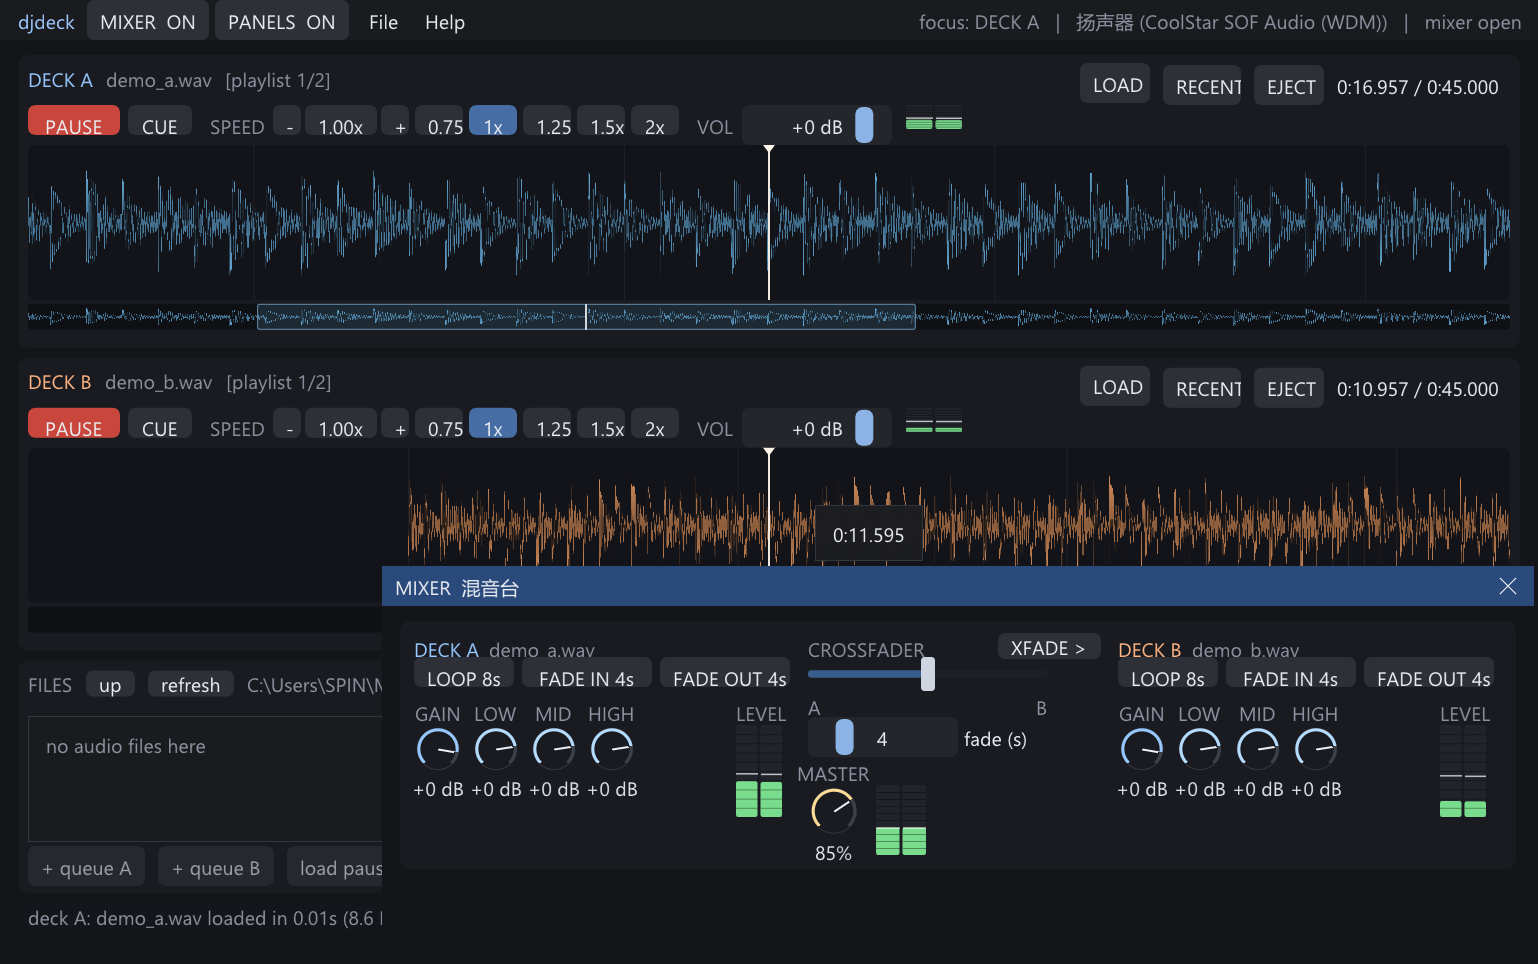
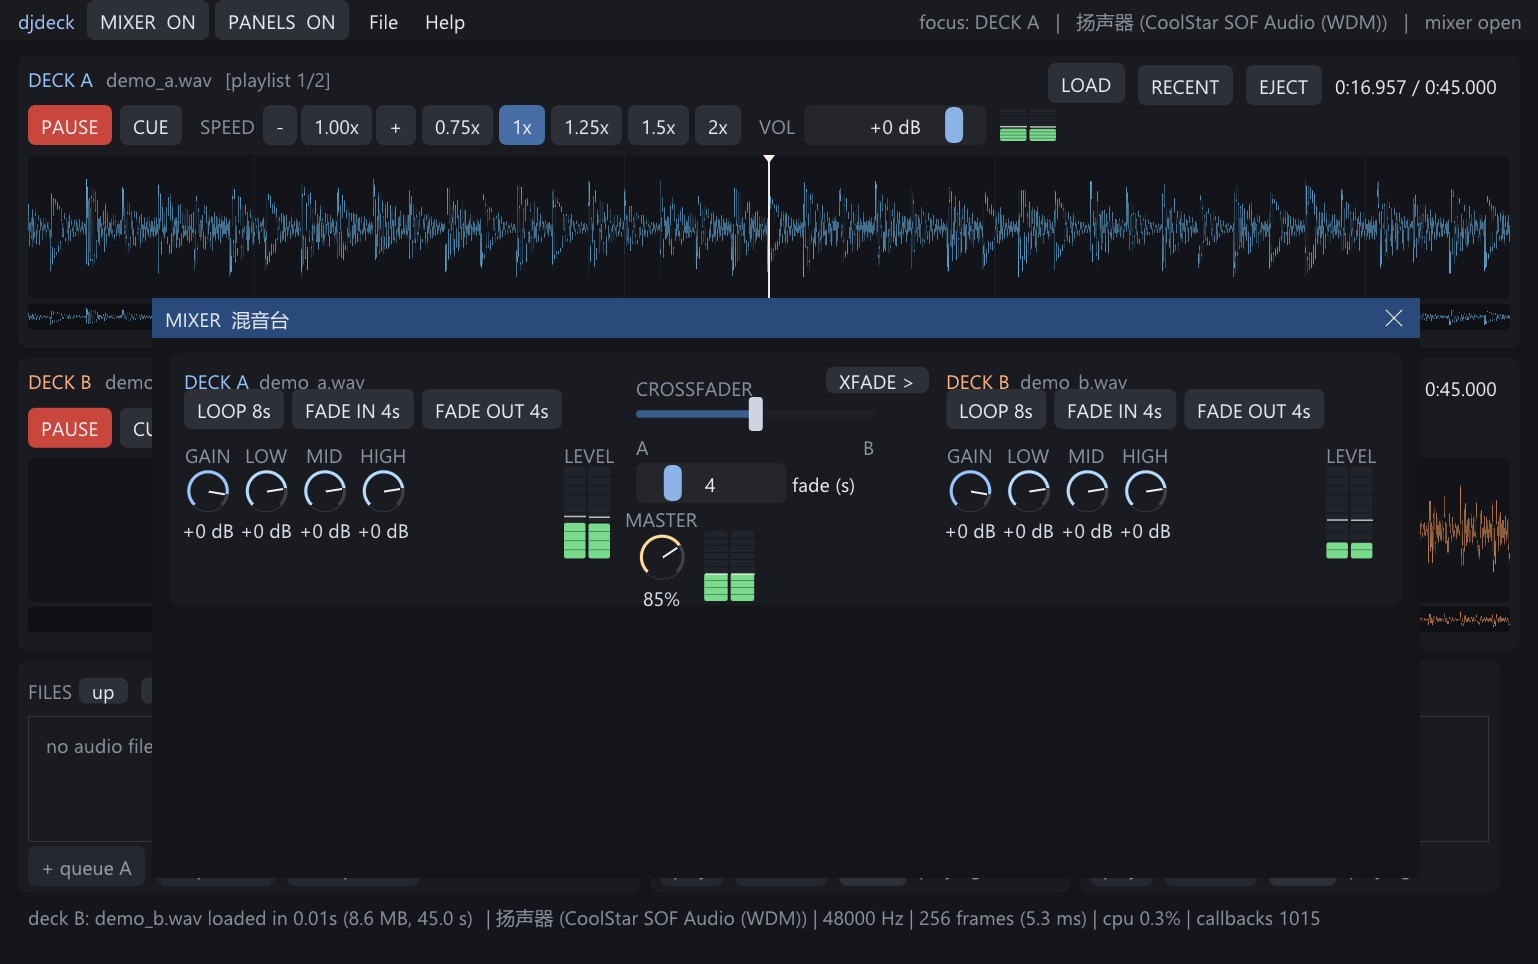
fix the row metrics: size everything from the style, not from pixel constants
The UI runs at the display's DPI scale (150% here: line height 26px), but the deck row
sizes were constants tuned for ~21px text: btnH was 30 while the font alone needed 26,
so the labels sat jammed against the bottom edge of their buttons, 6px below the frame
centre, and the preset buttons were too narrow for their own labels.

Measured with a pixel probe over the transport row (before -> after):
  SPEED label ink      y 120-134  ->  y 120-134, same band as the button labels
  row frames           y 105-134  ->  y 105-144 (40px = GetFrameHeight)
  button widths        28/48/72   ->  from CalcTextSize + FramePadding

- deck transport: btnH = GetFrameHeight(), widths from the labels, the VOL slider and
  the level meter scale with the font, the row height follows the style (TransportH())
- deck header: LOAD/RECENT/EJECT auto-sized and the right-hand block placed from the
  measured widths instead of a magic 430px
- mixer: strip width, panel height, knob size, crossfader/slider widths and the LOOP /
  FADE button sizes all derive from the font; the window opens centred instead of
  covering playlist B
- an intermediate attempt drew the labels by hand (RowLabel) to work around this; the
  measurements showed ImGui's own text placement is right once the frames are, so that
  helper is gone and the code is plain Text()/SameLine again

Tests: all six harnesses re-run green (29 selftest checks, playlist, gapless, resume,
[…]

diff --git a/src/main.cpp b/src/main.cpp
@@ -668,7 +668,9 @@ static void CollectRetired() {
 // The player controls live in one place: deck row, keyboard shortcuts and the
 // playlist advance all go through these.
 constexpr float kRateMin = 0.5f, kRateMax = 2.0f;   // tape-style resampling range
-constexpr float kTransportH = 40.0f;                // deck transport row (buttons are 30 high)
+// The deck transport row is one frame high plus a gap, taken from the style so the
+// layout stays right whatever the display DPI scale does to the font.
+static float TransportH() { return ImGui::GetFrameHeight() + 10.0f; }
 
 static void SetDeckRate(int i, float rate) {
     rate = std::clamp(rate, kRateMin, kRateMax);
@@ -1047,26 +1049,34 @@ static WaveHit DrawWaveform(int i, ImVec2 topLeft, ImVec2 size, bool overview) {
 // Everything in a deck block except the waveform window: padding, header, the
 // transport row, the gap and the overview strip. The layout above shares this.
 static float DeckChromeH(float hdrH, float waveH, float overviewH) {
-    return 20.0f + hdrH + 8.0f + kTransportH + waveH + 4.0f + overviewH;
+    return 20.0f + hdrH + 8.0f + TransportH() + waveH + 4.0f + overviewH;
 }
 
 // The player controls: play/pause, cue, speed (0.5x - 2.0x), volume, level.
+// Every size here is derived from the style/font instead of being a constant: the UI
+// runs at the display's DPI scale (150% is the common case), and hardcoded pixel sizes
+// leave the labels crowded and off-centre inside their frames.
 static void DrawDeckTransport(int i, ImVec2 topLeft, float width) {
     DeckUI&   u        = g_ui[i];
     dj::Deck& d        = g_eng.deck[i];
     const bool playing = d.playing.load(std::memory_order_relaxed);
-    const float btnH   = 30.0f;
+    const float btnH   = ImGui::GetFrameHeight();
+    const float fpad   = ImGui::GetStyle().FramePadding.x;
+    auto textW = [](const char* s) { return ImGui::CalcTextSize(s).x; };
     ImGui::SetCursorScreenPos(topLeft);
     ImGui::PushID(i + 800);
 
     ImGui::PushStyleColor(ImGuiCol_Button, playing ? IM_COL32(200, 70, 60, 255) : IM_COL32(52, 110, 70, 255));
     ImGui::PushStyleColor(ImGuiCol_ButtonHovered,
                           playing ? IM_COL32(225, 85, 72, 255) : IM_COL32(64, 130, 84, 255));
-    if (ImGui::Button(playing ? "PAUSE" : "PLAY", ImVec2(92, btnH))) TogglePlay(i);
+    if (ImGui::Button(playing ? "PAUSE" : "PLAY",
+                      ImVec2(std::max(textW("PAUSE"), textW("PLAY")) + fpad * 2.0f, btnH)))
+        TogglePlay(i);
+    if (ImGui::IsItemHovered()) ImGui::SetTooltip("播放 / 暂停  (Space)");
     ImGui::PopStyleColor(2);
     ImGui::SameLine(0.0f, 8.0f);
-    if (ImGui::Button("CUE", ImVec2(64, btnH))) CueDeck(i);
-    if (ImGui::IsItemHovered()) ImGui::SetTooltip("回到开头并暂停");
+    if (ImGui::Button("CUE", ImVec2(0, btnH))) CueDeck(i);
+    if (ImGui::IsItemHovered()) ImGui::SetTooltip("回到开头并暂停  (Q)");
 
     // speed: tape-style resampling, so the pitch follows the rate
     ImGui::SameLine(0.0f, 18.0f);
@@ -1074,23 +1084,23 @@ static void DrawDeckTransport(int i, ImVec2 topLeft, float width) {
     ImGui::AlignTextToFramePadding();
     ImGui::TextDisabled("SPEED");
     ImGui::SameLine(0.0f, 8.0f);
-    if (ImGui::Button("-##spd", ImVec2(28, btnH))) SetDeckRate(i, rate - 0.05f);
+    if (ImGui::Button("-##spd", ImVec2(0, btnH))) SetDeckRate(i, rate - 0.05f);
     ImGui::SameLine(0.0f, 4.0f);
     char rtxt[24];
     snprintf(rtxt, sizeof(rtxt), "%.2fx", double(rate));
-    ImGui::Button(rtxt, ImVec2(72, btnH));
-    if (ImGui::IsItemClicked()) SetDeckRate(i, 1.0f);        // the readout doubles as "reset"
+    if (ImGui::Button(rtxt, ImVec2(textW("0.00x") + fpad * 2.0f, btnH)))
+        SetDeckRate(i, 1.0f);                       // the readout doubles as "reset"
     if (ImGui::IsItemHovered()) ImGui::SetTooltip("点击回到 1.00x  ( - / = 调整当前音轨 )");
     ImGui::SameLine(0.0f, 4.0f);
-    if (ImGui::Button("+##spd", ImVec2(28, btnH))) SetDeckRate(i, rate + 0.05f);
+    if (ImGui::Button("+##spd", ImVec2(0, btnH))) SetDeckRate(i, rate + 0.05f);
 
-    static const float kPreset[5]  = {0.75f, 1.0f, 1.25f, 1.5f, 2.0f};
+    static const float kPreset[5]    = {0.75f, 1.0f, 1.25f, 1.5f, 2.0f};
     static const char* kPresetLbl[5] = {"0.75x", "1x", "1.25x", "1.5x", "2x"};
     for (int k = 0; k < 5; ++k) {
         ImGui::SameLine(0.0f, 6.0f);
         const bool on = fabsf(rate - kPreset[k]) < 0.001f;
         if (on) ImGui::PushStyleColor(ImGuiCol_Button, IM_COL32(70, 110, 165, 255));
-        if (ImGui::Button(kPresetLbl[k], ImVec2(48, btnH))) SetDeckRate(i, kPreset[k]);
+        if (ImGui::Button(kPresetLbl[k], ImVec2(0, btnH))) SetDeckRate(i, kPreset[k]);
         if (on) ImGui::PopStyleColor();
     }
 
@@ -1100,12 +1110,17 @@ static void DrawDeckTransport(int i, ImVec2 topLeft, float width) {
     ImGui::TextDisabled("VOL");
     ImGui::SameLine(0.0f, 8.0f);
     float db = d.faderDb.load(std::memory_order_relaxed);
-    ImGui::SetNextItemWidth(150.0f);
+    ImGui::SetNextItemWidth(ImGui::GetFontSize() * 7.0f);
     if (ImGui::SliderFloat("##vol", &db, -40.0f, 6.0f, db <= -39.5f ? "-inf dB" : "%+.0f dB"))
         d.faderDb.store(db);
 
     ImGui::SameLine(0.0f, 14.0f);
-    LevelMeter("dmeter", u.meter[0], u.meter[1], u.hold[0], u.hold[1], ImVec2(56, btnH - 6.0f));
+    {
+        const float  mH = btnH * 0.8f;
+        const ImVec2 mp = ImGui::GetCursorScreenPos();
+        ImGui::SetCursorScreenPos(ImVec2(mp.x, topLeft.y + (btnH - mH) * 0.5f));
+        LevelMeter("dmeter", u.meter[0], u.meter[1], u.hold[0], u.hold[1], ImVec2(56.0f, mH));
+    }
     ImGui::PopID();
 }
 
@@ -1143,15 +1158,23 @@ static void DrawDeck(int i, ImVec2 topLeft, float width, float waveH, float over
         ImGui::SameLine();
     }
 
-    const float rightButtonsW = 430.0f;
-    ImGui::SetCursorScreenPos(ImVec2(a.x + width - pad - rightButtonsW, a.y + pad - 2.0f));
+    const double pos = t ? double(d.pos.load(std::memory_order_relaxed)) / t->sampleRate : 0.0;
+    char tbuf[32], ttot[32];
+    FmtTime(pos, tbuf, sizeof(tbuf));
+    FmtTime(t ? t->seconds() : 0.0, ttot, sizeof(ttot));
+    const float fpadH = ImGui::GetStyle().FramePadding.x;
+    const float gapH  = ImGui::GetStyle().ItemSpacing.x;
+    auto btnW = [&](const char* s) { return ImGui::CalcTextSize(s).x + fpadH * 2.0f; };
+    const float timeW  = ImGui::CalcTextSize("0:00.000 / 0:00.000").x;
+    const float rightW = btnW("LOAD") + btnW("RECENT") + btnW("EJECT") + timeW + gapH * 4.0f;
+    ImGui::SetCursorScreenPos(ImVec2(a.x + width - pad - rightW, a.y + pad - 2.0f));
 
-    if (ImGui::Button("LOAD", ImVec2(70, 0))) {
+    if (ImGui::Button("LOAD", ImVec2(0, 0))) {
         std::string p;
         if (PickFile(&p)) StartLoad(i, p);
     }
     ImGui::SameLine();
-    if (ImGui::Button("RECENT", ImVec2(78, 0))) ImGui::OpenPopup("##recent");
+    if (ImGui::Button("RECENT", ImVec2(0, 0))) ImGui::OpenPopup("##recent");
     if (ImGui::BeginPopup("##recent")) {
         for (auto& r : g_recent) {
             const char* slash = strrchr(r.c_str(), '\\');
@@ -1162,7 +1185,7 @@ static void DrawDeck(int i, ImVec2 topLeft, float width, float waveH, float over
         ImGui::EndPopup();
     }
     ImGui::SameLine();
-    if (ImGui::Button("EJECT", ImVec2(70, 0))) {
+    if (ImGui::Button("EJECT", ImVec2(0, 0))) {
         d.ejectReq.store(true);
         DiscardStaged(i);
         g_awaiting[i].store(nullptr);
@@ -1174,10 +1197,6 @@ static void DrawDeck(int i, ImVec2 topLeft, float width, float waveH, float over
         Say("deck %c: ejected", 'A' + i);
     }
     ImGui::SameLine();
-    const double pos = t ? double(d.pos.load(std::memory_order_relaxed)) / t->sampleRate : 0.0;
-    char tbuf[32], ttot[32];
-    FmtTime(pos, tbuf, sizeof(tbuf));
-    FmtTime(t ? t->seconds() : 0.0, ttot, sizeof(ttot));
     ImGui::Text("%s / %s", tbuf, ttot);
     ImGui::PopID();
 
@@ -1205,7 +1224,7 @@ static void DrawDeck(int i, ImVec2 topLeft, float width, float waveH, float over
 
     // -------- waveform + overview  (position is advanced exactly once per deck per frame)
     UpdateDeckPosition(i);
-    const ImVec2 wavePos(a.x + pad, ty + kTransportH);
+    const ImVec2 wavePos(a.x + pad, ty + TransportH());
     const ImVec2 waveSize(width - pad * 2.0f, waveH);
     DrawWaveform(i, wavePos, waveSize, false);
     DrawWaveform(i, ImVec2(wavePos.x, wavePos.y + waveH + 4.0f),
@@ -1218,8 +1237,8 @@ static void DrawDeck(int i, ImVec2 topLeft, float width, float waveH, float over
 //   y0+0   (30)  LOOP 8s | FADE IN n s | FADE OUT n s
 //   y0+42        GAIN + LOW/MID/HIGH knobs (label / 48 px dial / value), LEVEL meter right
 // The player-side controls (play, cue, speed, volume) live on the deck itself.
-static constexpr float kStripW = 384.0f;
-static constexpr float kMixerH = 248.0f;
+static float StripW()    { return ImGui::GetFontSize() * 17.0f; }
+static float MixerH()    { return ImGui::GetFontSize() * 9.7f; }
 
 static void DrawMixer(ImVec2 topLeft, float width, float height) {
     ImDrawList* dl = ImGui::GetWindowDrawList();
@@ -1228,11 +1247,12 @@ static void DrawMixer(ImVec2 topLeft, float width, float height) {
     PanelBg(dl, a, b, IM_COL32(26, 27, 33, 255), 10.0f);
 
     const float pad     = 14.0f;
-    const float stripW  = kStripW;
+    const float stripW  = StripW();
     const float centerW = std::max(200.0f, width - stripW * 2.0f - pad * 2.0f);
     const float lineH   = ImGui::GetTextLineHeight();
-    const float knobSz  = 48.0f;
-    const float knobGap = 10.0f;
+    const float btnH    = ImGui::GetFrameHeight();
+    const float knobSz  = ImGui::GetFontSize() * 1.85f;
+    const float knobGap = ImGui::GetFontSize() * 0.4f;
 
     auto place = [](float x, float y) { ImGui::SetCursorScreenPos(ImVec2(x, y)); };
 
@@ -1255,7 +1275,7 @@ static void DrawMixer(ImVec2 topLeft, float width, float height) {
         place(x0, y0);
         const bool loopOn = d.loopOn.load();
         if (loopOn) ImGui::PushStyleColor(ImGuiCol_Button, IM_COL32(70, 110, 165, 255));
-        if (ImGui::Button(loopOn ? "LOOP 8s ON" : "LOOP 8s", ImVec2(100, 30))) {
+        if (ImGui::Button(loopOn ? "LOOP 8s ON" : "LOOP 8s", ImVec2(0, btnH))) {
             const bool on = !loopOn;
             if (on && t) {
                 const uint64_t p   = d.pos.load();
@@ -1271,14 +1291,14 @@ static void DrawMixer(ImVec2 topLeft, float width, float height) {
         char fl[24], fr[24];
         snprintf(fl, sizeof(fl), "FADE IN %.0fs", g_fadeSecs);
         snprintf(fr, sizeof(fr), "FADE OUT %.0fs", g_fadeSecs);
-        if (ImGui::Button(fl, ImVec2(130, 30)))
+        if (ImGui::Button(fl, ImVec2(0, btnH)))
             d.ArmFade(1.0f, (uint32_t)(g_fadeSecs * g_eng.sampleRate), false);
         ImGui::SameLine(0.0f, 8.0f);
-        if (ImGui::Button(fr, ImVec2(130, 30)))
+        if (ImGui::Button(fr, ImVec2(0, btnH)))
             d.ArmFade(0.0f, (uint32_t)(g_fadeSecs * g_eng.sampleRate), true);
 
         // ---- row 1: channel trim + 3-band EQ, level meter on the right
-        const float row2 = y0 + 42.0f;
+        const float row2 = y0 + btnH + 12.0f;
         place(x0, row2);
         {
             float gain = d.faderDb.load();
@@ -1302,7 +1322,7 @@ static void DrawMixer(ImVec2 topLeft, float width, float height) {
         ImGui::TextDisabled("LEVEL");
         place(x0 + stripW - 62.0f, row2 + lineH);
         LevelMeter("meter", g_ui[i].meter[0], g_ui[i].meter[1],
-                   g_ui[i].hold[0], g_ui[i].hold[1], ImVec2(46, 92));
+                   g_ui[i].hold[0], g_ui[i].hold[1], ImVec2(46.0f, knobSz * 1.9f));
         ImGui::PopID();
     }
 
@@ -1311,9 +1331,9 @@ static void DrawMixer(ImVec2 topLeft, float width, float height) {
         const float cx = a.x + pad + stripW + std::max(0.0f, (centerW - 300.0f) * 0.5f);
         float       y  = a.y + pad;
         ImGui::PushID(777);
-        place(cx, y);
+        place(cx, y + ImGui::GetStyle().FramePadding.y);
         ImGui::TextDisabled("CROSSFADER");
-        place(cx + 190.0f, y - 2.0f);
+        place(cx + ImGui::GetFontSize() * 7.3f, y);
         if (ImGui::SmallButton("XFADE >")) {
             const int from = g_eng.xfader.load() < 0.5f ? 0 : 1;
             const int to   = 1 - from;
@@ -1329,15 +1349,16 @@ static void DrawMixer(ImVec2 topLeft, float width, float height) {
                 Say("auto-mix: %c -> %c over %.1fs", 'A' + from, 'A' + to, g_fadeSecs * 1.5f);
             }
         }
-        y += 22.0f;
+        y += lineH + 4.0f;
         place(cx, y);
         float xf = g_eng.xfader.load();
-        if (HFader("xf", &xf, ImVec2(240, 34), "A", "B")) g_eng.xfader.store(xf);
+        if (HFader("xf", &xf, ImVec2(ImGui::GetFontSize() * 9.2f, 34.0f), "A", "B"))
+            g_eng.xfader.store(xf);
 
-        y += 34.0f + 26.0f;                          // track + the A/B label line under it
+        y += 34.0f + lineH + 6.0f;                   // track + the A/B label line under it
         place(cx, y);
         float fadeSec = g_fadeSecs;
-        ImGui::PushItemWidth(150.0f);
+        ImGui::PushItemWidth(ImGui::GetFontSize() * 5.8f);
         if (ImGui::SliderFloat("fade (s)", &fadeSec, 1.0f, 16.0f, "%.0f")) g_fadeSecs = fadeSec;
         ImGui::PopItemWidth();
 
@@ -1361,20 +1382,21 @@ static void DrawMixer(ImVec2 topLeft, float width, float height) {
 // The mixer is a secondary panel now: closed by default, opened from the top bar
 // (or M), floating above the player page. Its own window keeps the main page clean
 // and leaves the full height to the waveforms.
-static constexpr float kMixerW = kStripW * 2.0f + 348.0f;   // two strips + the centre column
-
 static void DrawMixerWindow() {
     if (!g_showMixer) return;
     const ImGuiIO& io = ImGui::GetIO();
-    ImGui::SetNextWindowSize(ImVec2(kMixerW, kMixerH + 46.0f), ImGuiCond_FirstUseEver);
-    ImGui::SetNextWindowPos(ImVec2(std::max(0.0f, io.DisplaySize.x - kMixerW - 40.0f),
-                                   std::max(0.0f, io.DisplaySize.y - kMixerH - 150.0f)),
+    const float    w  = StripW() * 2.0f + ImGui::GetFontSize() * 13.4f;   // strips + centre column
+    const float    h  = MixerH();
+    // Centred over the waveform area: the old bottom-right default covered playlist B.
+    ImGui::SetNextWindowSize(ImVec2(w, h + 46.0f), ImGuiCond_FirstUseEver);
+    ImGui::SetNextWindowPos(ImVec2(std::max(0.0f, (io.DisplaySize.x - w) * 0.5f),
+                                   std::max(0.0f, (io.DisplaySize.y - h) * 0.42f)),
                             ImGuiCond_FirstUseEver);
     if (ImGui::Begin("MIXER  混音台", &g_showMixer,
                      ImGuiWindowFlags_NoCollapse | ImGuiWindowFlags_AlwaysAutoResize)) {
         const ImVec2 o = ImGui::GetCursorScreenPos();
-        DrawMixer(o, kMixerW, kMixerH);
-        ImGui::Dummy(ImVec2(kMixerW, kMixerH));
+        DrawMixer(o, w, h);
+        ImGui::Dummy(ImVec2(w, h));
     }
     ImGui::End();
 }
@@ -1391,8 +1413,9 @@ static void DrawBrowserPanel(ImVec2 topLeft, ImVec2 size) {
     const float footH = ImGui::GetFrameHeight() + 10.0f;
     ImGui::PushID(4242);
     ImGui::SetCursorScreenPos(ImVec2(a.x + pad, a.y + pad));
+    ImGui::AlignTextToFramePadding();
     ImGui::TextDisabled("FILES");
-    ImGui::SameLine();
+    ImGui::SameLine(0.0f, 6.0f);
     if (ImGui::SmallButton("up")) {
         const size_t s = g_browser.dir.find_last_of('\\');
         if (s != std::string::npos && s >= 3) {
@@ -1403,7 +1426,12 @@ static void DrawBrowserPanel(ImVec2 topLeft, ImVec2 size) {
     ImGui::SameLine();
     if (ImGui::SmallButton("refresh")) g_browser.needScan = true;
     ImGui::SameLine();
-    ImGui::TextDisabled("%s", g_browser.dir.c_str());
+    ImGui::AlignTextToFramePadding();
+    {
+        char dir[80];
+        snprintf(dir, sizeof(dir), "%.52s", g_browser.dir.c_str());
+        ImGui::TextDisabled("%s", dir);
+    }
 
     const float listTop = a.y + pad + ImGui::GetFrameHeight() + 6.0f;
     const float listH   = std::max(40.0f, b.y - footH - listTop);
@@ -1465,9 +1493,15 @@ static void DrawPlaylistPanel(int i, ImVec2 topLeft, ImVec2 size) {
     const float footH = ImGui::GetFrameHeight() + 10.0f;
     ImGui::PushID(5000 + i);
     ImGui::SetCursorScreenPos(ImVec2(a.x + pad, a.y + pad));
-    ImGui::PushStyleColor(ImGuiCol_Text, i == 0 ? IM_COL32(150, 200, 255, 255) : IM_COL32(255, 180, 130, 255));
-    ImGui::Text("PLAYLIST %c", 'A' + i);
-    ImGui::PopStyleColor();
+    ImGui::AlignTextToFramePadding();
+    {
+        char hdr[32];
+        snprintf(hdr, sizeof(hdr), "PLAYLIST %c", 'A' + i);
+        ImGui::PushStyleColor(ImGuiCol_Text, i == 0 ? IM_COL32(150, 200, 255, 255)
+                                                    : IM_COL32(255, 180, 130, 255));
+        ImGui::TextUnformatted(hdr);
+        ImGui::PopStyleColor();
+    }
     ImGui::SameLine(0.0f, 12.0f);
     {   // how this queue continues when a track ends on a deck nobody paused
         int m = (int)pl.mode;
@@ -1476,7 +1510,12 @@ static void DrawPlaylistPanel(int i, ImVec2 topLeft, ImVec2 size) {
         if (ImGui::IsItemHovered()) ImGui::SetTooltip("%s", kPlayModeTip[(int)pl.mode]);
     }
     ImGui::SameLine(0.0f, 10.0f);
-    ImGui::TextDisabled("%d tracks", (int)pl.items.size());
+    ImGui::AlignTextToFramePadding();
+    {
+        char cnt[32];
+        snprintf(cnt, sizeof(cnt), "%d tracks", (int)pl.items.size());
+        ImGui::TextDisabled("%s", cnt);
+    }
     if (ImGui::IsItemHovered()) ImGui::SetTooltip("把文件拖到这里加入队列;列表内拖动可排序");
 
     const float listTop = a.y + pad + ImGui::GetFrameHeight() + 6.0f;
@@ -1566,6 +1605,7 @@ static void DrawPlaylistPanel(int i, ImVec2 topLeft, ImVec2 size) {
         pl.selected = -1;
     }
     ImGui::SameLine();
+    ImGui::AlignTextToFramePadding();
     ImGui::TextDisabled(d.atEnd.load() ? "ended" : (d.playing.load() ? "playing" : "paused"));
     ImGui::PopID();
 }

diff --git a/README.md b/README.md
@@ -46,6 +46,9 @@ build/djdeck.exe --load a.wav b.wav             # 指定两首歌启动
 状态栏：设备 / 采样率 / 块大小 / CPU / callback
 ```
 
+行高、按钮宽度、滑块长度都取自 ImGui 的样式与字体尺寸（`GetFrameHeight()`、`CalcTextSize()`），
+不是写死的像素值——所以 150% 显示缩放下文字依然在按钮里居中，而不会挤在下缘。
+
 **混音台**是独立浮窗（顶栏 MIXER 按钮或 `M`），关掉不影响播放：
 
 ```
